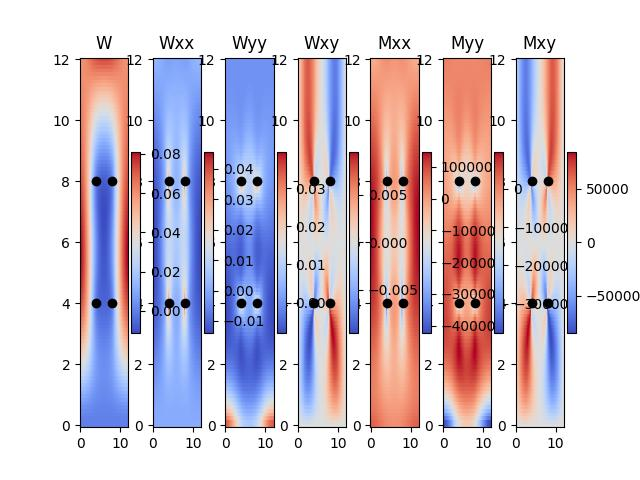
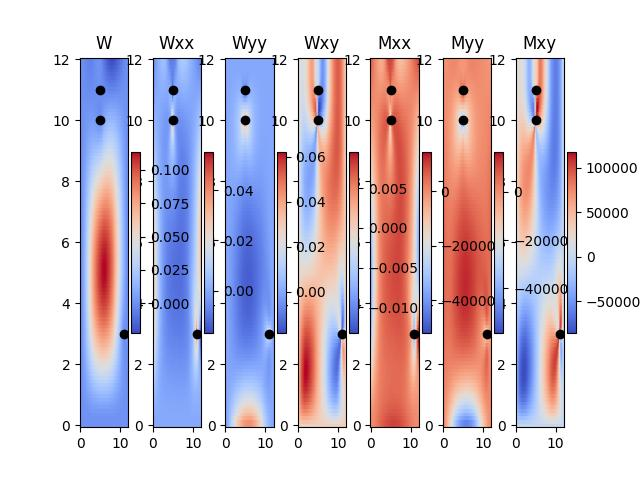
calculate quality 2d , high moment 2d , monte carlo 2d

diff --git a/ground_anchoring_controller/api/euller_beam.py b/ground_anchoring_controller/api/euller_beam.py
@@ -856,6 +856,10 @@ class clWall():
 		WallNumerical.vvw_make(bLoop, print_all)
 		if print_all:
 			WallNumerical.drewGraphs(v_xy_anchor)
+		
+		#print(WallNumerical.MomentMax_wall_get())
+	
+		return WallNumerical.MomentMax_wall_get()
 	class clWallNumerical():
 		def __init__(self,Wall,nx=10,ny=10, print_all=True):
 			self.Wall = Wall
@@ -1037,6 +1041,7 @@ class clWall():
 			w2-=c*self.vvw[ix-i0+1][iy-j0]
 			w2+=c*self.vvw[ix-i0][iy-j0]
 			return w2
+
 		def Moment_get(self,ix,iy,index):
 			#Mxx(x,y)=-D(w’’xx(x,y)-v w’’yy(x,y))
 			#Myy(x,y)=-D(w’’yy(x,y)-v w’’xx(x,y))
@@ -1046,6 +1051,17 @@ class clWall():
 			if index==2:
 				return -self.Wall.dd*(self.w2_get(ix,iy,2)-self.Wall.v*self.w2_get(ix,iy,1))
 			return -self.Wall.dd*(1-self.Wall.v)*self.w2_get(ix,iy,3)
+
+		def MomentMax_wall_get(self):
+			m_max = 0
+   
+			for ix in range(len(self.vx)):
+				for iy in range(len(self.vy)):
+					m = self.Moment_get(ix,iy,1) + self.Moment_get(ix,iy,2) + self.Moment_get(ix,iy,3)
+					if abs(m) > m_max:
+						m_max = abs(m)
+			return m_max
+
 		def MomentMax_get(self):#MomentMax,xArgMax=
 			MyMath=clMyMath()
 			MyMath.y_start(self.vx,self.vw)
@@ -1648,7 +1664,8 @@ def start_euller_beam(h, deg, anchors, save_plot=True):
 def start_wall_test(width, height, anchors, print_all):
 	Wall=clWall(xMax=width, yMax=height)
 
-	Wall.testWall(v_xy_anchor=anchors, print_all=False)
+	return round(abs(Wall.testWall(v_xy_anchor=anchors, print_all=print_all)),2)
+	
 	# print("High moment in 2d : ",round(abs(Wall.testWall(v_xy_anchor=anchors, print_all=print_all)), 2) )
 
 def test():

diff --git a/ground_anchoring_controller/api/monteCarlo.py b/ground_anchoring_controller/api/monteCarlo.py
@@ -25,7 +25,7 @@ def roll_dice (height , width,anchors_1 ):
 
 def createAncorsWithMonteCarlo(height , width,max_num_of_anchors):
     # Inputs & Tracking
-    num_simulations = 1000
+    num_simulations = 2
     anchors = []
     quality_1 = 0
     # For loop to run for the number of simulations desired
@@ -42,11 +42,14 @@ def createAncorsWithMonteCarlo(height , width,max_num_of_anchors):
             if new_anchor:
                 anchors_1.append({'id' : num_anchor+1 , 'x' : x , 'y' : y})
                 num_anchor += 1
+        # Wall=clWall(xMax=width, yMax=height)
+        # # if this simulation give us better quality than take it
+        # quality_2 = quality(height , width,anchors_1)
 
         # if this simulation give us better quality than take it
-        quality_2 = quality(height , width,anchors_1)
-        if (quality_2 < quality_1):
+        quality_2 = quality(clWall(xMax=width, yMax=height),anchors_1)
+        if (quality_2 < quality_1)or not len(anchors) :
             quality_1 = quality_2 
             anchors = anchors_1.copy()
             
-    return anchors , quality_1
+    return anchors 

diff --git a/ground_anchoring_controller/api/views.py b/ground_anchoring_controller/api/views.py
@@ -10,7 +10,7 @@ from .equalDistance import *
 from .monteCarlo import *
 from .monteCarlo1d import *
 from .euller_beam import *
-from .euller_beam2d import *
+# from .euller_beam2d import *
 import base64
 from .GradientDescent1d import *
 
@@ -211,12 +211,12 @@ class getHighMoment2d(APIView):
     def post(self , request , format=None):
         global high_moment ,anchors1   ,height1 , width1  
         anchors2 =[]
+        print("get high moment , anchors : ", anchors1)
         for anchor in anchors1:
             abc=[anchor['x'],anchor['y']]
             anchors2.append(abc)
             
-        high_moment = start_wall_test2dd(width1, height1, anchors2, True)
-        high_moment = 66
+        high_moment = start_wall_test(width1, height1, anchors2, True)
         return Response(high_moment, status=status.HTTP_200_OK)
     
 class getImage2(APIView):

diff --git a/ground_anchoring_controller/api/quality.py b/ground_anchoring_controller/api/quality.py
@@ -17,5 +17,6 @@ def quality(wall: clWall, anchors):
     anchors_xy =[]
     for anchor in anchors:
         anchors_xy.append([anchor['x'], anchor['y']])
-
-    return round(abs(wall.testWall(v_xy_anchor=anchors_xy, print_all=False)), 2)
+    aaa =round(abs(wall.testWall(v_xy_anchor=anchors_xy, print_all=False)), 2)
+    print(aaa)
+    return aaa

diff --git a/ground_anchoring_controller/api/euller_beam2d.py b/ground_anchoring_controller/api/euller_beam2d.py
@@ -1001,6 +1001,7 @@ class clWall():
                 if i==5:
                     Z=self.drewGraphs_Z_w2_get(5)
                     MyMath.printMatrixToFile(Z,"mmyy.txt")
+                   
                     sTitle="Myy"
                 if i==6:
                     Z=self.drewGraphs_Z_w2_get(6)

diff --git a/ground_anchoring_controller/api/monteCarlo1d.py b/ground_anchoring_controller/api/monteCarlo1d.py
@@ -51,5 +51,5 @@ def createAncorsWithMonteCarlo1d(height, deg, max_num_of_anchors):
             print(moment, " new  old ", min_moment)
             min_moment = moment 
             anchors = anchors_1.copy()
-
+    
     return anchors 
